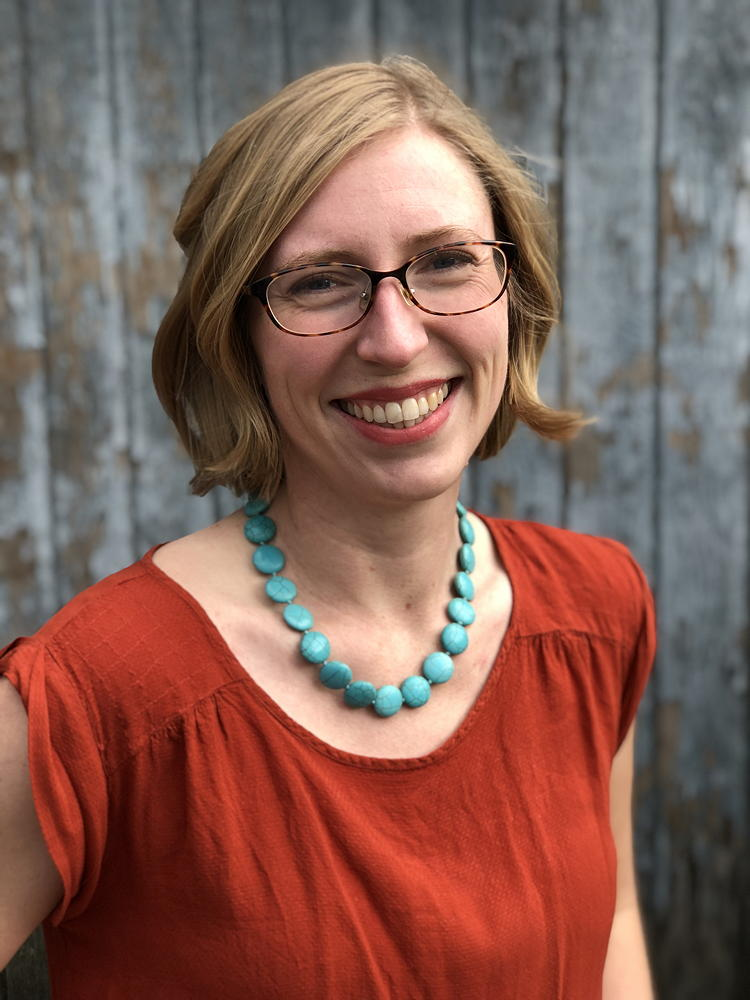
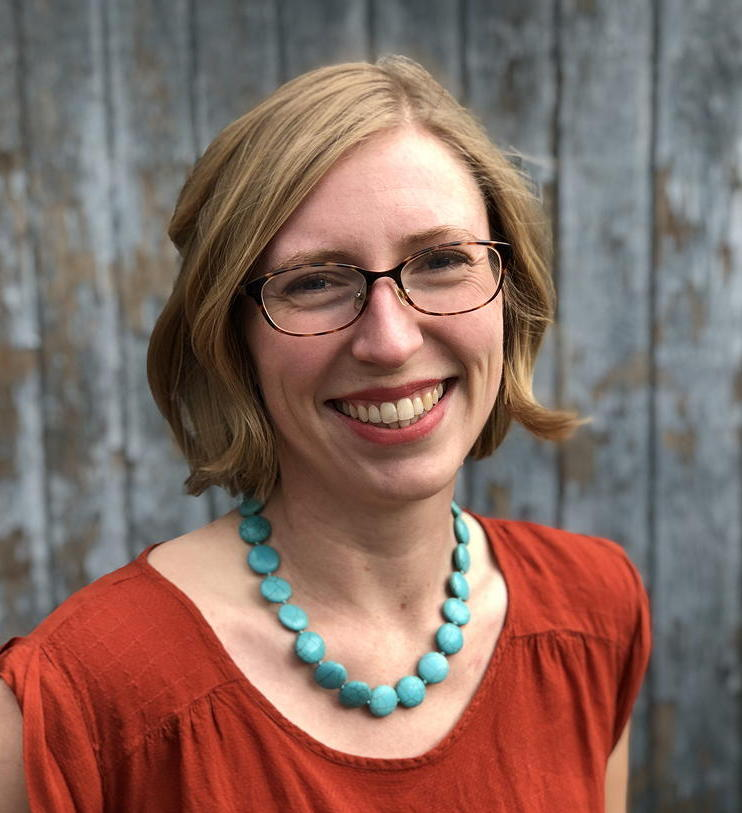
Mobile styles

diff --git a/disasterinfosite/static/style/app.scss b/disasterinfosite/static/style/app.scss
@@ -203,10 +203,6 @@ h4 {
   border: 0;
 }
 
-.right-align {
-  text-align: right;
-}
-
 img {
   max-width: 100%;
 }
@@ -866,8 +862,9 @@ form:invalid {
 
 .about-container--flex {
   display: flex;
+  flex-direction: column;
 
-  @include breakpoint(medium-and-up) {
+  @include breakpoint(large) {
     flex-direction: row;
   }
 }
@@ -885,11 +882,17 @@ form:invalid {
 
 .bio {
   display: flex;
-  margin-bottom: 40px;
-  padding: 40px;
+  flex-direction: column;
+  margin-bottom: 10px;
+  padding: 10px;
 
   @include breakpoint(medium-and-up) {
     flex-direction: row;
+  }
+
+  @include breakpoint(large) {
+    margin-bottom: 40px;
+    padding: 40px;
   }
 }
 
@@ -910,24 +913,54 @@ form:invalid {
 }
 
 .bio__image {
-  flex: 1 1 1000px;
+  flex: 1 1 250px;
+
+  @include breakpoint(medium-and-up) {
+    flex: 0 1 850px;
+  }
 }
 
 .bio__other {
-  flex: 2 1 auto;
-  margin-left: 40px;
+  @include breakpoint(medium) {
+    flex: 1 1 auto;
+    margin-left: 10px;
+  }
+
+  @include breakpoint(large) {
+    flex: 3 1 auto;
+    margin-left: 40px;
+  }
 }
 
 .bio__other--reverse {
-  margin-left: 0;
-  margin-right: 40px;
+  @include breakpoint(medium-and-up) {
+    margin-left: 0;
+    margin-right: 10px;
+
+    h4 {
+      text-align: right;
+    }
+  }
+
+  @include breakpoint(large) {
+    margin-right: 40px;
+  }
 }
 
 .bio__name {
   border-bottom: 2px solid #ccc;
+  margin-top: 12px;
 }
 
 .bio__text {
   background-color: $white;
   padding: 10px 20px;
+}
+
+.bio__links {
+  margin: 15px 20px 5px;
+
+  @include breakpoint(medium-and-up) {
+    margin: 16px 0;
+  }
 }

diff --git a/disasterinfosite/templates/about.html b/disasterinfosite/templates/about.html
@@ -65,7 +65,7 @@
           </div>
           <div class="bio__other bio__other--reverse">
             <div class="bio__text">
-              <h4 class="bio__name h4--sans-serif right-align">Rebecca Bendick</h4>
+              <h4 class="bio__name h4--sans-serif">Rebecca Bendick</h4>
               <p>
                 Rebecca Bendick has a Ph.D. in geophysics from the University of Colorado. Her research on tectonics and earthquake mechanics led to an interest in how human communities are affected by natural disasters, and inspires her ongoing efforts to help people better understand and prepare for them. She writes and lectures on the ethics of science communication as well as on her basic geophysical research.
               </p>
